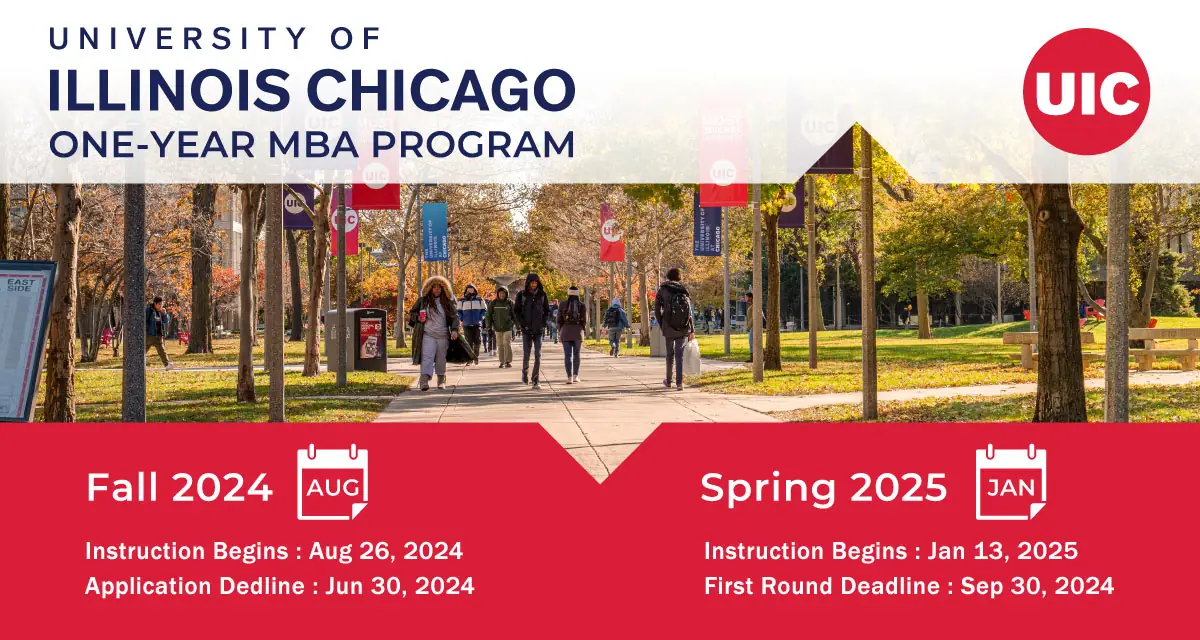
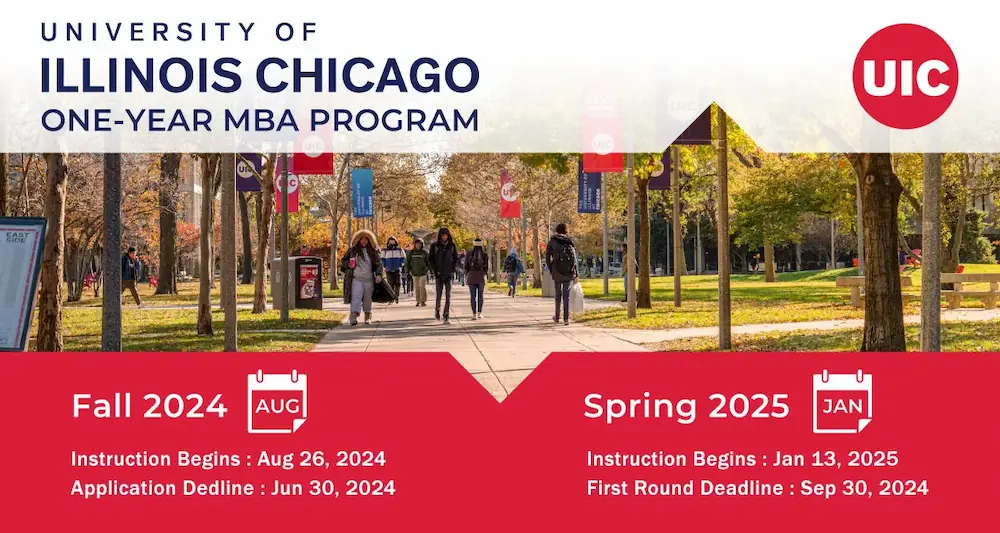
blog圖片優化載入

diff --git a/src/data/blog.js b/src/data/blog.js
@@ -1,6 +1,7 @@
 export const enrollmentEvents = [
   {
     id: 1,
+    thumbnail: `${process.env.PUBLIC_URL}/images/blog/thumbnail/2025-02-03_UIC-申請截止日期_01.webp`,
     image: `${process.env.PUBLIC_URL}/images/blog/2025-02-03_UIC-申請截止日期_01.webp`,
     imageWidth: 300,
     imageHeight: 200,
@@ -56,7 +57,9 @@ Jul/1/2025（目前最新公布截止日、若有更新則以更新為準）
 6⃣ MS in Accounting
 
 ✅Deadline
-▶International students requiring a visa:
+▶International students requiring a visa:Nov/2025（目前最新公布截止日、若有更新則以更新為準）
+▶Student with either an F1 student visa or legal status in the U.S.:
+
 Nov/2025（目前最新公布截止日、若有更新則以更新為準）
 ▶Student with either an F1 student visa or legal status in the U.S.:
 Nov/2025（目前最新公布截止日、若有更新則以更新為準）
@@ -64,6 +67,7 @@ Nov/2025（目前最新公布截止日、若有更新則以更新為準）
   },
   {
     id: 2,
+    thumbnail: `${process.env.PUBLIC_URL}/images/blog/thumbnail/2024-08-29_UIC-申請截止日期_01.webp`,
     image: `${process.env.PUBLIC_URL}/images/blog/2024-08-29_UIC-申請截止日期_01.webp`,
     imageWidth: 300,
     imageHeight: 200,
@@ -95,6 +99,7 @@ Nov/2025（目前最新公布截止日、若有更新則以更新為準）
   },
   {
     id: 3,
+    thumbnail: `${process.env.PUBLIC_URL}/images/blog/thumbnail/2024-04-08_UIC-申請截止日期.webp`,
     image: `${process.env.PUBLIC_URL}/images/blog/2024-04-08_UIC-申請截止日期.webp`,
     imageWidth: 300,
     imageHeight: 200,
@@ -128,6 +133,7 @@ UIC MBA台灣招生中心:https://bright-edu.com/
   },
   {
     id: 4,
+    thumbnail: `${process.env.PUBLIC_URL}/images/blog/thumbnail/擷取.webp`,
     image: `${process.env.PUBLIC_URL}/images/blog/擷取.webp`,
     imageWidth: 300,
     imageHeight: 200,
@@ -148,6 +154,7 @@ UIC MBA台灣招生中心:https://bright-edu.com/
 export const news = [
   {
     id: 5,
+    thumbnail: `${process.env.PUBLIC_URL}/images/blog/thumbnail/UIC-BEST-COLLEGE-橫幅2.webp`,
     image: `${process.env.PUBLIC_URL}/images/blog/UIC-BEST-COLLEGE-橫幅2.webp`,
     imageWidth: 320,
     imageHeight: 180,
@@ -170,6 +177,7 @@ UIC Today News:https://today.uic.edu/uic-rises-in-2025-u-s-news-best-colleges-ra
   },
   {
     id: 6,
+    thumbnail: `${process.env.PUBLIC_URL}/images/blog/thumbnail/UIC-BEST-COLLEGE-橫幅.webp`,
     image: `${process.env.PUBLIC_URL}/images/blog/UIC-BEST-COLLEGE-橫幅.webp`,
     imageWidth: 320,
     imageHeight: 180,

diff --git a/src/components/ArticleCard/ArticleCard.js b/src/components/ArticleCard/ArticleCard.js
@@ -30,10 +30,10 @@ function ArticleCard({ item, imageType, layout = "vertical" }) {
   return (
     <StyledArticleCard title={item.title}>
       <Wrapper $layout={layout} $imageType={imageType} {...wrapperProps}>
-        {/* 渲染圖片或背景佔位 */}
-        {item.image ? (
+        {/* 圖片區塊：優先使用 thumbnail，無則 fallback image */}
+        {item.thumbnail || item.image ? (
           <StyledImage
-            src={item.image}
+            src={item.thumbnail || item.image}
             alt={item.title}
             $layout={layout}
             loading="lazy"
